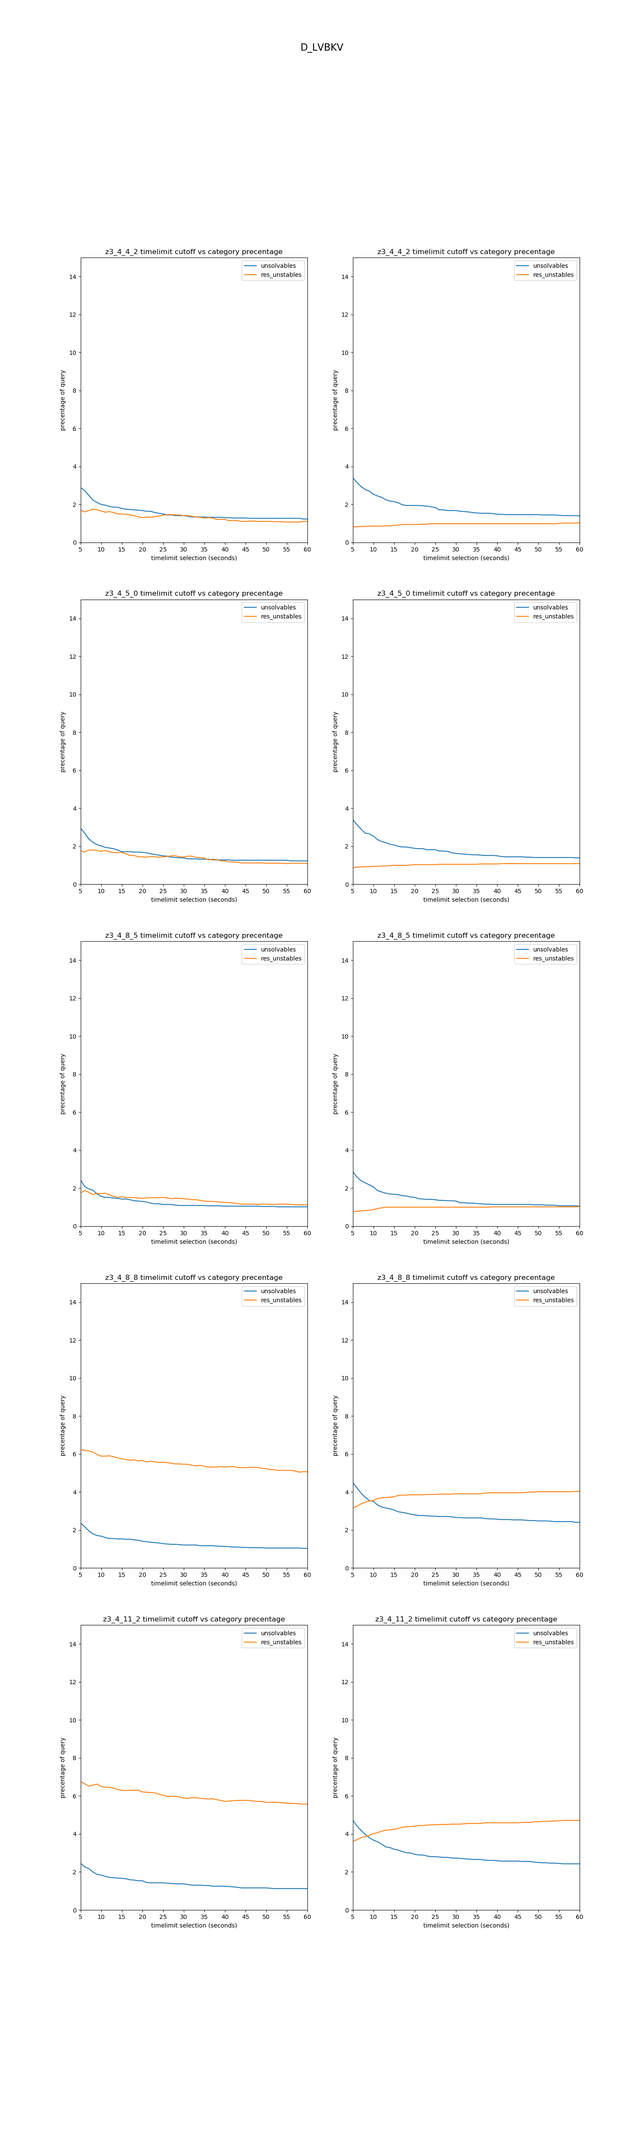
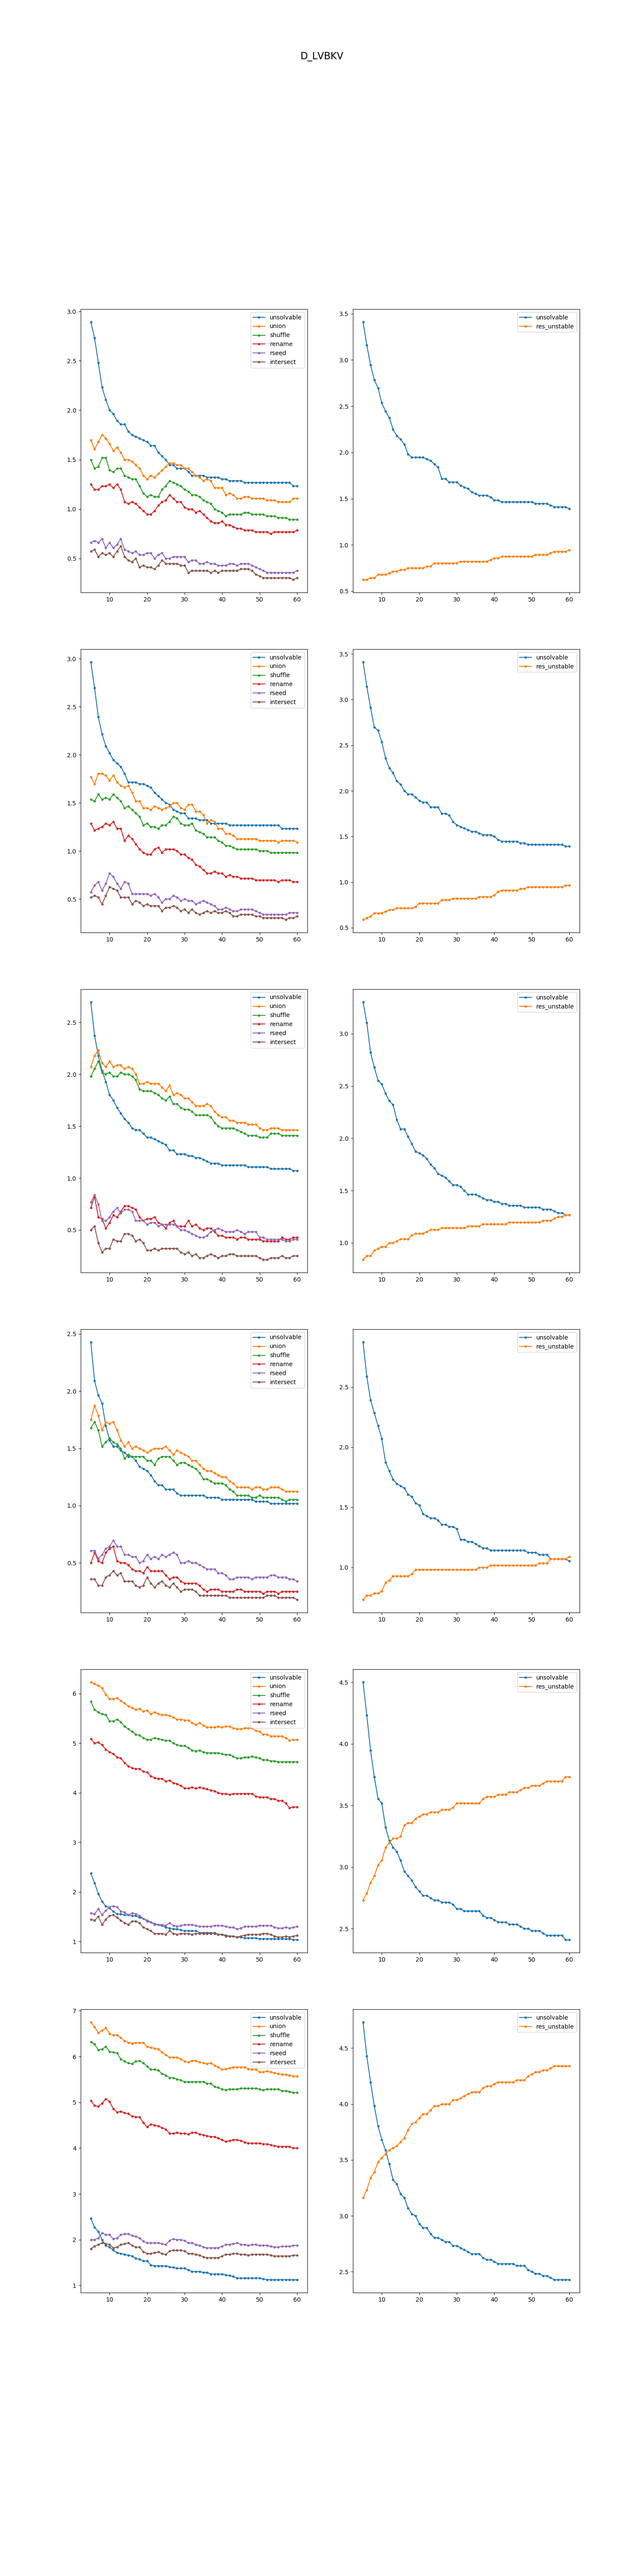
update cutoff figure to show different perts

diff --git a/scripts/analyzer.py b/scripts/analyzer.py
@@ -272,9 +272,11 @@ class Thresholds:
 
     #     return Stablity.RES_UNSTABLE
     
-    def categorize_query(self, group_blobs):
+    def categorize_query(self, group_blobs, perturbs=None):
         ress = set()
-        for i in range(group_blobs.shape[0]):
+        if perturbs is None:
+            perturbs = [i for i in range(group_blobs.shape[0])]
+        for i in perturbs:
             ress.add(self.categorize_group(group_blobs[i]))
         if len(ress) == 1:
             return ress.pop()
@@ -282,11 +284,11 @@ class Thresholds:
             return Stablity.TIME_UNSTABLE
         return Stablity.RES_UNSTABLE
 
-def categorize_qeuries(rows, thresholds):
+def categorize_qeuries(rows, thresholds, perturbs=None):
     categories = Stablity.empty_map()
     for query_row in rows:
         plain_path = query_row[1]
-        res = thresholds.categorize_query(query_row[3])
+        res = thresholds.categorize_query(query_row[3], perturbs)
         categories[res].add(plain_path)
     return categories
 
@@ -295,48 +297,75 @@ def get_category_precentages(categories):
     total = sum([len(i) for i in categories.values()])
     for c, i in categories.items():
         percentages[c] = percentage(len(i), total)
-    return percentages
+    return percentages, total
 
-def subplot_cutoff(sp, xs, ys0, ys1, solver):
-    sp.plot(xs, ys0, marker=",", label="unsolvables")
-    sp.plot(xs, ys1, marker=",", label="res_unstables")
-    sp.set_title(f'{solver} timelimit cutoff vs category precentage')
-    sp.set_xlabel("timelimit selection (seconds)")
-    sp.set_ylabel("precentage of query")
-    sp.set_xticks(xs[::5])
-    sp.set_xlim(left=5, right=60)
-    sp.set_ylim(bottom=0, top=15)
-    sp.legend()
+# def subplot_cutoff(sp, xs, ys0, ys1, ys2, solver):
+#     sp.plot(xs, ys0, marker=",", label="unsolvables")
+#     sp.plot(xs, ys1, marker=",", label="res_unstables")
+#     sp.plot(xs, ys2, marker=",", label=" res_unstables")
+#     sp.set_title(f'{solver} timelimit cutoff vs category precentage')
+#     sp.set_xlabel("timelimit selection (seconds)")
+#     sp.set_ylabel("precentage of query")
+#     sp.set_xlim(left=5, right=60)
+#     sp.set_ylim(bottom=0, top=15)
+#     sp.legend()
 
 def plot_cutoff(cfg):
     s = load_summary_table(cfg)
     solver_count = len(s.keys())
     cut_figure, cut_aixs = setup_fig(solver_count, 2)
     xs = [i for i in range(5, 61, 1)]
+    perturbs = [str(p) for p in cfg.qcfg.enabled_muts]
 
-    for j, (solver, rows) in tqdm(enumerate(s.items())):
-        strict_th = Thresholds("strict")
-        palin_th = Thresholds("regression")
-        stricts = [[], []]
-        plains = [[], []]
-
-        for i in xs:
-            strict_th.timeout = i * 1000
-            categories = categorize_qeuries(rows, strict_th)
-            ps = get_category_precentages(categories)
-            stricts[0].append(ps[Stablity.UNSOLVABLE])
-            stricts[1].append(ps[Stablity.RES_UNSTABLE])
-            palin_th.timeout = i * 1000
-            categories = categorize_qeuries(rows, palin_th)
-            ps = get_category_precentages(categories)
-            plains[0].append(ps[Stablity.UNSOLVABLE])
-            plains[1].append(ps[Stablity.RES_UNSTABLE])
-
+    for j, (solver, rows) in enumerate(s.items()):
         sps = cut_aixs
         if solver_count != 1:
             sps = cut_aixs[j]
-        subplot_cutoff(sps[0], xs, stricts[0], stricts[1], solver)
-        subplot_cutoff(sps[1], xs, plains[0], plains[1], solver)
+
+        strict_th = Thresholds("strict")
+        palin_th = Thresholds("regression")
+
+        stricts = {"unsolvable": [], "union": [], "shuffle": [], 
+                    "rename": [], "rseed": [], "intersect": []}
+        plains = {"unsolvable": [], "res_unstable": []}
+
+        for i in xs:
+            strict_th.timeout = i * 1000
+            palin_th.timeout = i * 1000
+
+            categories = {"unsolvable": set(), "shuffle": set(), "rename":set(), "rseed": set(), "union": set()}
+            categories2 = {"unsolvable": 0, "res_unstable": 0, "stable": 0}
+            for query_row in rows:
+                plain_path = query_row[1]
+                group_blobs = query_row[3]
+                ress = set()
+                for k, p in enumerate(perturbs):
+                    res = strict_th.categorize_group(group_blobs[k])
+                    if res == Stablity.RES_UNSTABLE:
+                        categories[p].add(plain_path)
+                    ress.add(res)
+                if ress == {Stablity.UNSOLVABLE}:
+                    categories["unsolvable"].add(plain_path)
+                elif ress != {Stablity.STABLE}:
+                    categories["union"].add(plain_path)
+
+                res = palin_th.categorize_query(group_blobs)
+                categories2[res] += 1
+
+            total = len(rows)
+            intersect = set.intersection(*[categories["shuffle"], categories["rename"], categories["rseed"]])
+            categories["intersect"] = intersect
+            for k, v in categories.items():
+                stricts[k].append(percentage(len(v) , total))
+            for k in {"unsolvable", "res_unstable"}:
+                plains[k].append(percentage(categories2[k], total))
+
+        for k in stricts:
+            sps[0].plot(xs, stricts[k], marker=".", label=k)
+        sps[0].legend()
+        for k in plains:
+            sps[1].plot(xs, plains[k], marker=".", label=k)
+        sps[1].legend()
 
     name = cfg.qcfg.name
     save_fig(cut_figure, f"{name}", f"fig/time_cutoff/{name}.png")

diff --git a/scripts/main.py b/scripts/main.py
@@ -56,7 +56,7 @@ def analyze_results():
 
     # D_KOMODO_CFG = ExpConfig("D_KOMODO", D_KOMODO, [Z3_4_11_2], DB_PATH)
     # plot_cutoff(D_KOMODO_CFG)
-    compare_perturbations(D_LVBKV_CFG)
+    plot_cutoff(D_KOMODO_CFG)
 
 def import_database(other_server):
     other_db_path = "data/mariposa2.db"
